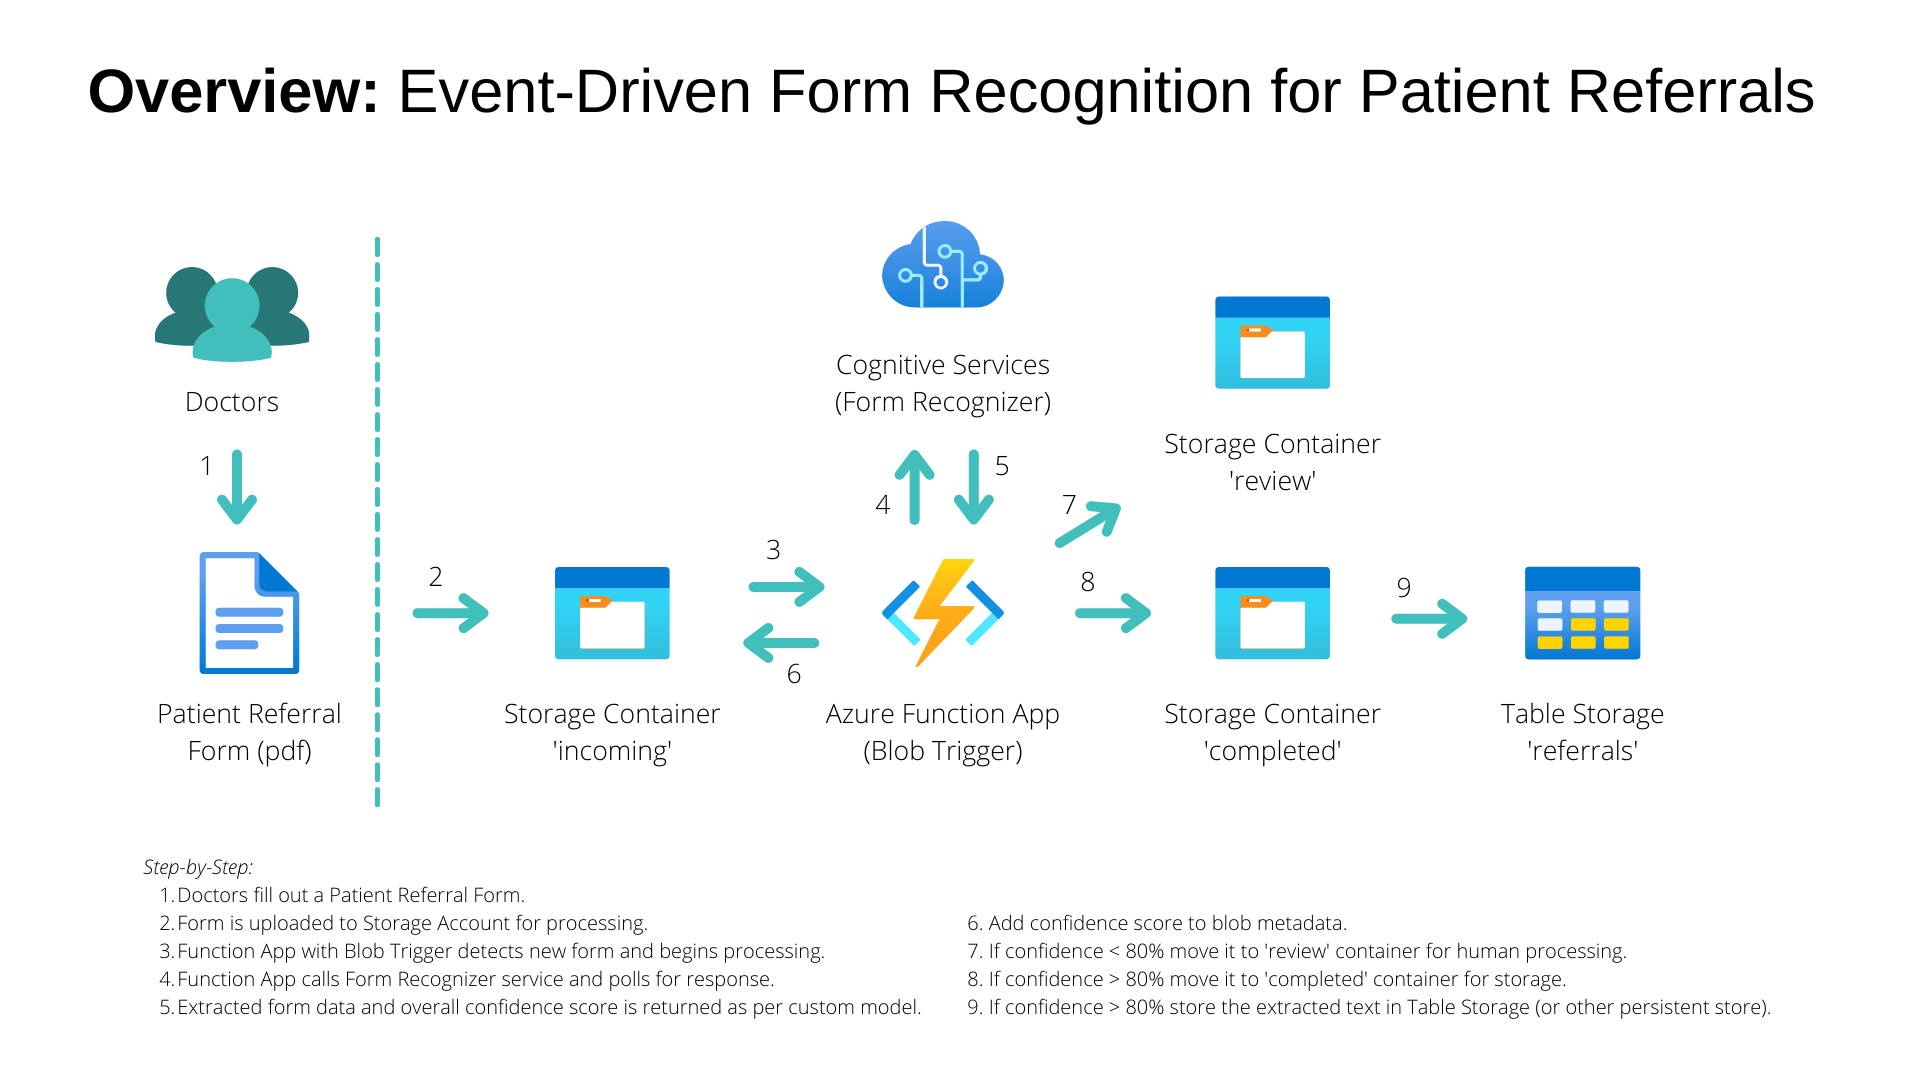
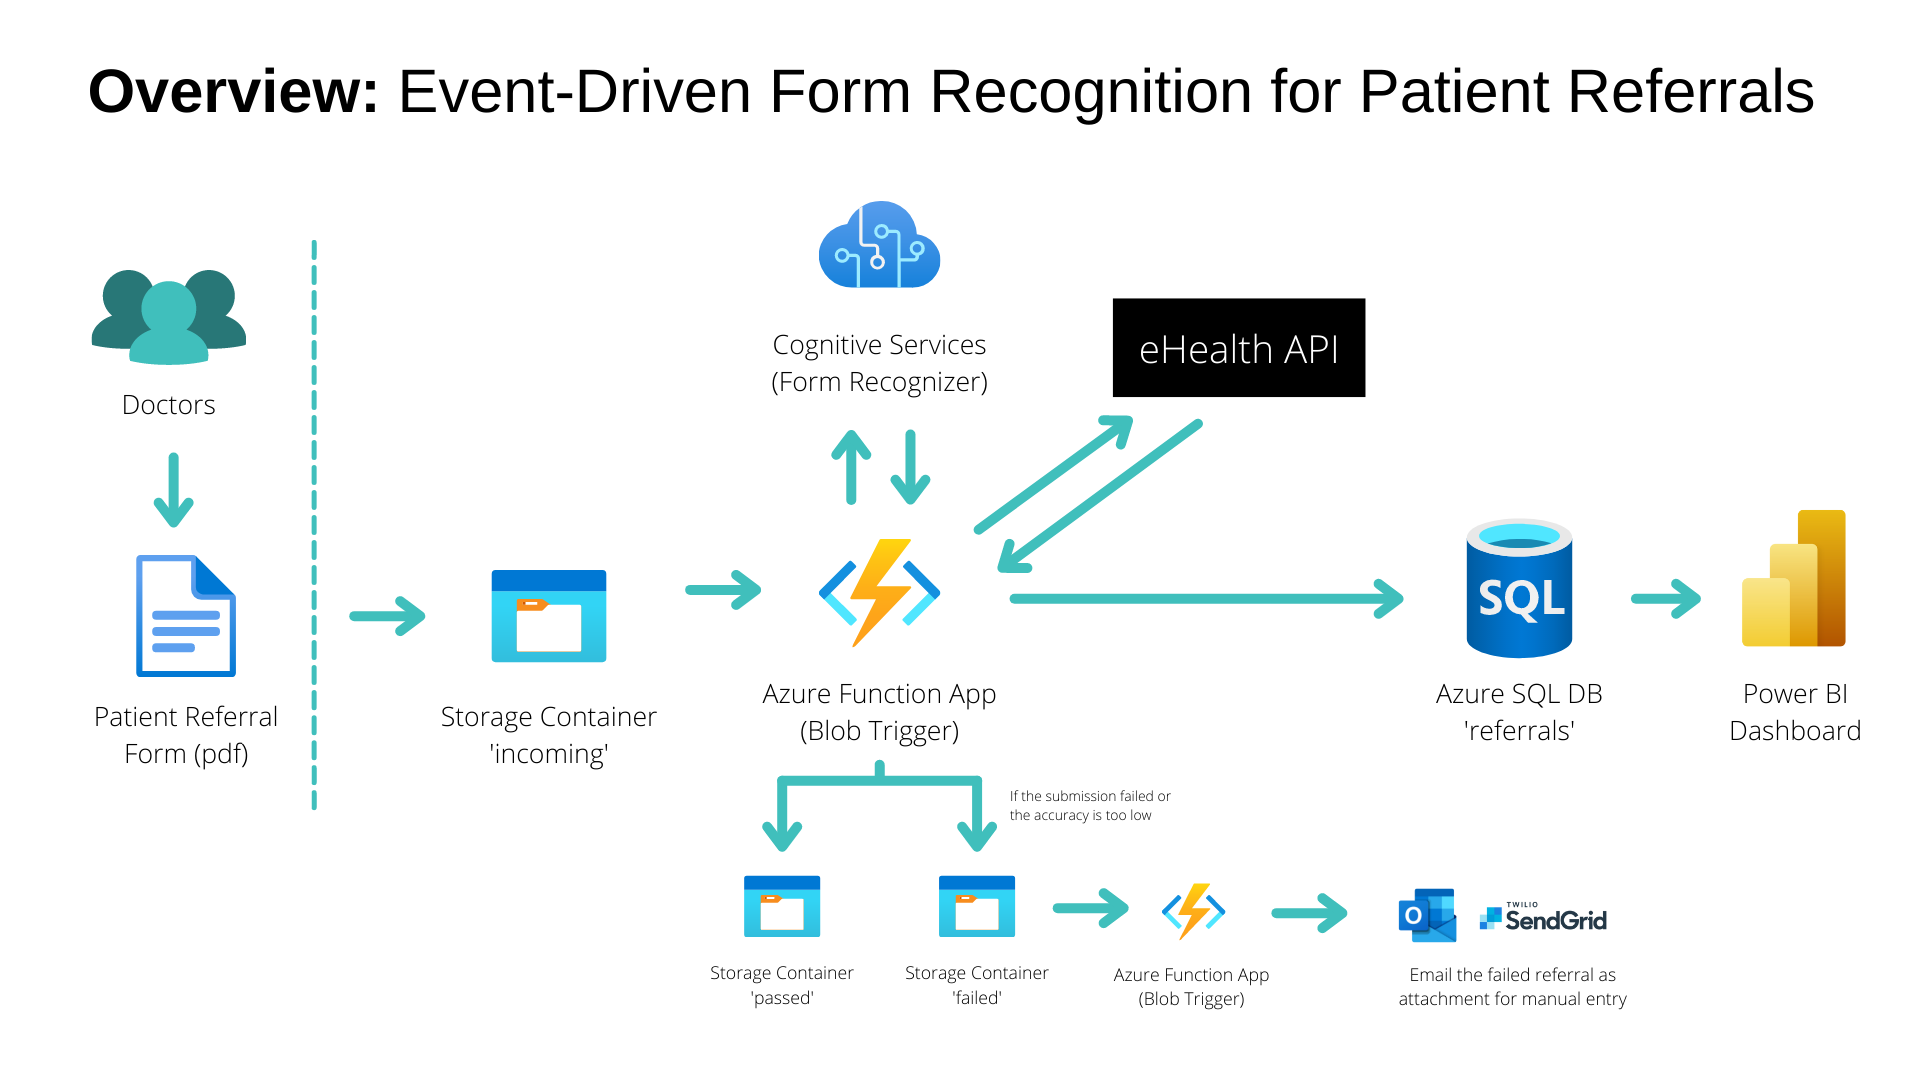
Updated Diagram and other small changes

diff --git a/email-via-graph-api/index.ts b/email-via-graph-api/index.ts
@@ -32,11 +32,11 @@ const sendFailedReferralEmail: AzureFunction = async (
     {
       "@odata.type": "#microsoft.graph.fileAttachment",
       name: context.bindingData.name,
-      contentBytes: myBlob,
+      contentBytes: myBlob.toString("base64"),
       contentType: context.bindingData.properties.contentType,
     },
   ]);
-  context.log(JSON.stringify(message, null, 2));
+  // context.log(JSON.stringify(message, null, 2));
 
   // Send Email
   sendEmail(process.env.FROM_ADDRESS, message);

diff --git a/email-via-graph-api/utils/interfaces.ts b/email-via-graph-api/utils/interfaces.ts
@@ -39,9 +39,9 @@ export interface IEmail {
     toRecipients?: Array<IGraphRecipient>;
     ccRecipients?: Array<IGraphRecipient>;
     bccRecipients?: Array<IGraphRecipient>;
-    saveToSentItems?: "true" | "false";
     bodyPreview?: string;
     importance?: "low" | "normal" | "high";
     attachments?: Array<IAttachment>;
   };
+  saveToSentItems?: "true" | "false";
 }

diff --git a/patient-referral-form-recognizer/utils/json.ts b/patient-referral-form-recognizer/utils/json.ts
@@ -50,7 +50,7 @@ export const mergeDeep = (target: Object, ...sources: any) => {
         if (!target[key]) Object.assign(target, { [key]: {} });
         mergeDeep(target[key], source[key]);
       } else {
-        Object.assign(target, { [key]: source[key] });
+        if (!target[key]) Object.assign(target, { [key]: source[key] });
       }
     }
   }

diff --git a/patient-referral-form-recognizer/utils/endpoints.ts b/patient-referral-form-recognizer/utils/endpoints.ts
@@ -48,7 +48,7 @@ export const submitReferral = async (
     maxBodyLength: Infinity,
     headers: {
       "Content-Type": "text/plain",
-      authentication: `Bearer ${token}`,
+      authorization: `Bearer ${token}`,
       client_id: ENDPOINT_AUTH_USER,
       client_secret: ENDPOINT_AUTH_PASS,
     },

diff --git a/email-via-graph-api/utils/email.ts b/email-via-graph-api/utils/email.ts
@@ -39,9 +39,9 @@ export const createEmailAsJson = (
       from: {
         emailAddress: { address: FROM_ADDRESS },
       },
-      saveToSentItems: "true",
       attachments: attachments,
     },
+    saveToSentItems: "true",
   };
 
   return addRecipients(email, recipients);

diff --git a/README.md b/README.md
@@ -12,7 +12,7 @@ Our goal is now to train an Azure Form Recognizer model to label, train, and tes
 
 ## High-Level: What happens end-to-end?
 
-![Overview](./media/overview.png)
+![Overview](./media/high-level-overview.png)
 
 1. When a new document is uploaded into the `incoming` container of the Storage Account, it is picked up for processing by the Azure Function (which listens for changes to blobs in this containers).
 2. The Azure Function reads the data of the blob and makes a call to the Azure Form Recognizer service via the SDK.
@@ -101,8 +101,9 @@ This occurs because you may have selected more than one snippet of text when the
 
 1. In the _Label data_ tab, click the _Train_ button in the top right corner
 2. Enter a Model ID and Description
-3. Click: _Train_
-4. Once trained, the model will be displayed in the _Models_ tab
+3. If prompted to choose a Build mode, select _Template_ for this type of document
+4. Click: _Train_
+5. Once trained, the model will be displayed in the _Models_ tab
 
 ![Train a New Model](./media/steps/train-model/train-new-model.png)
 
